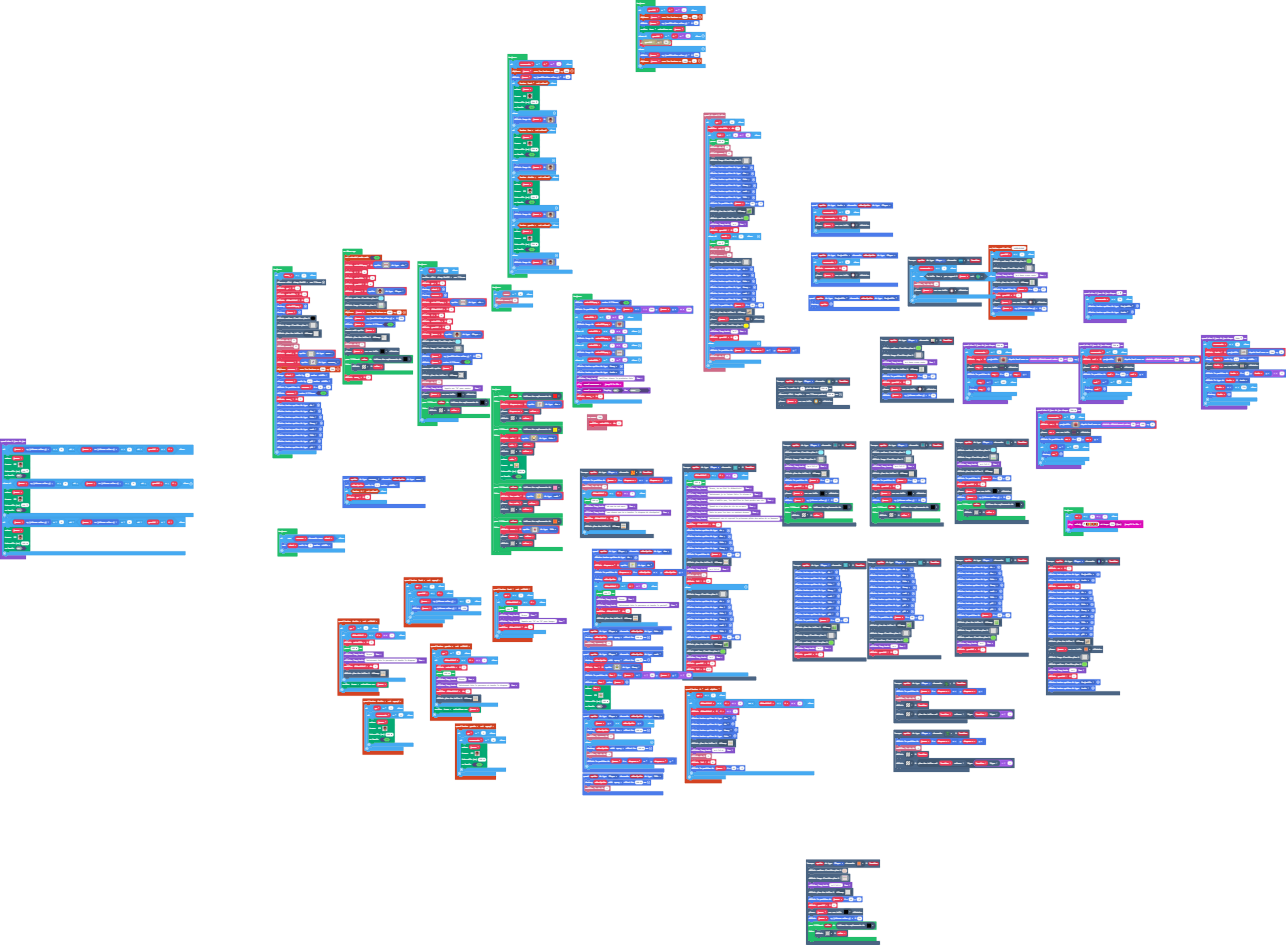
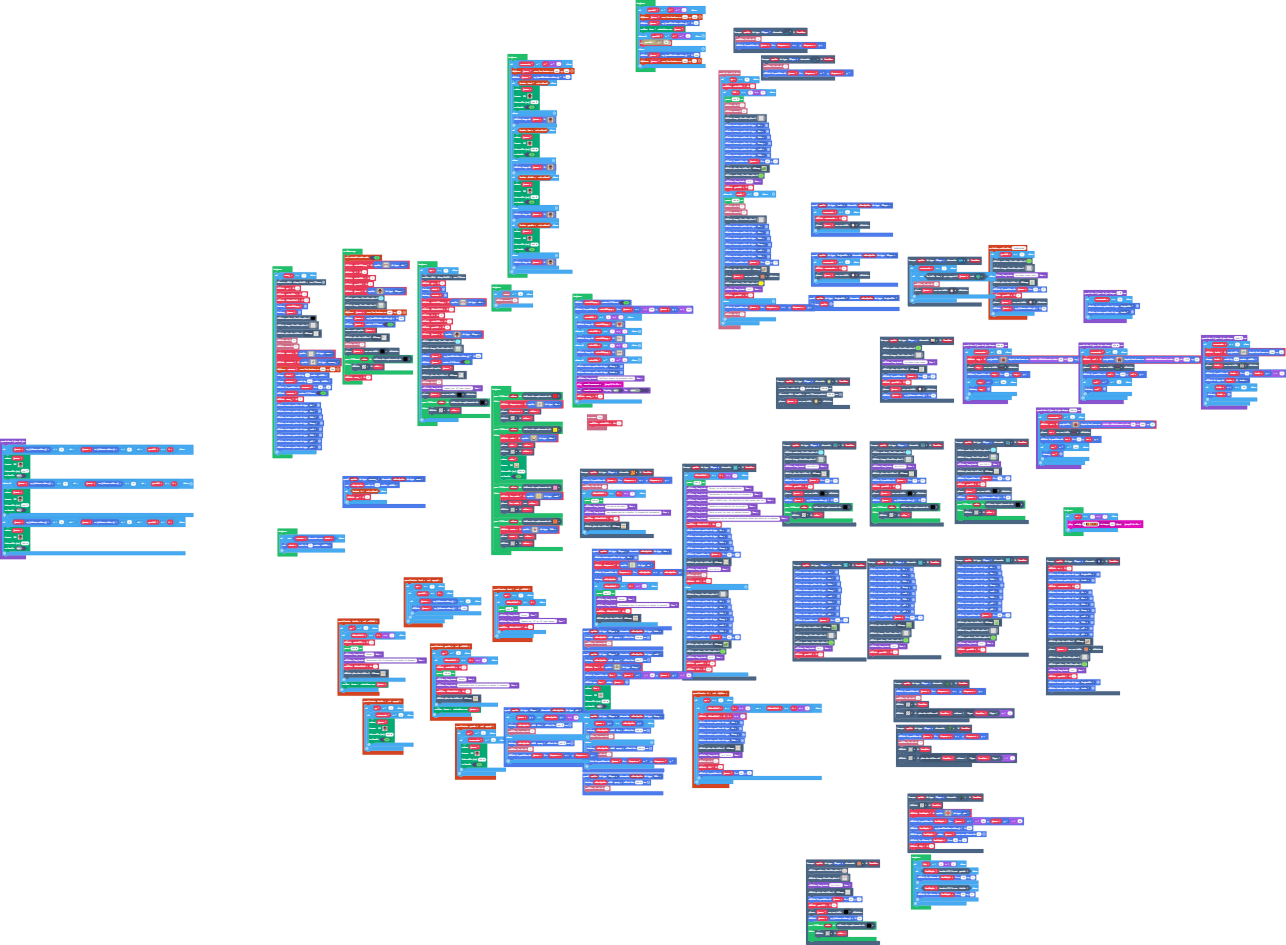
Mise à jour pxt.json, main.blocks, main.ts, tilemap.g.jres, tilemap.g.ts

diff --git a/tilemap.g.ts b/tilemap.g.ts
@@ -272,6 +272,12 @@ namespace myTiles {
     export const tile135 = image.ofBuffer(hex``);
     //% fixedInstance jres blockIdentity=images._tile
     export const tile9 = image.ofBuffer(hex``);
+    //% fixedInstance jres blockIdentity=images._tile
+    export const tile136 = image.ofBuffer(hex``);
+    //% fixedInstance jres blockIdentity=images._tile
+    export const tile137 = image.ofBuffer(hex``);
+    //% fixedInstance jres blockIdentity=images._tile
+    export const tile138 = image.ofBuffer(hex``);
 
     helpers._registerFactory("tilemap", function(name: string) {
         switch(helpers.stringTrim(name)) {
@@ -1903,25 +1909,6 @@ namespace myTiles {
 . . . . . . . . . . . . . . . . 
 . . . . . . . . . . . . . . . . 
 `, [myTiles.transparency16,sprites.castle.tilePath5,myTiles.tile41,myTiles.tile45,myTiles.tile39,myTiles.tile46,myTiles.tile48,myTiles.tile49,myTiles.tile50,myTiles.tile42,myTiles.tile43,myTiles.tile22,myTiles.tile23,myTiles.tile24,myTiles.tile26,myTiles.tile105,myTiles.tile112,myTiles.tile114,myTiles.tile115,myTiles.tile117,myTiles.tile119,myTiles.tile120,myTiles.tile121,myTiles.tile118,myTiles.tile123,myTiles.tile124,myTiles.tile125,myTiles.tile127,myTiles.tile128,myTiles.tile129,myTiles.tile110,myTiles.tile116,myTiles.tile95], TileScale.Sixteen);
-            case "level1":
[1 lines of base64/hex data omitted]
-................................................................
-................................................................
-................................................................
-................................................................
-................................................................
-................................................................
-................................................................
-................................................................
-................................................................
-................................................................
-................................................................
-................................................................
-................................................................
-................................................................
-......222...22..................................................
-22222222222222222222............................................
-`, [myTiles.transparency16,myTiles.tile97,myTiles.tile98,myTiles.tile99,myTiles.tile109,myTiles.tile111,myTiles.tile113,myTiles.tile131,myTiles.tile132,myTiles.tile133,myTiles.tile134,myTiles.tile135,myTiles.tile10,myTiles.tile1,myTiles.tile51], TileScale.Sixteen);
             case "level1-m2":
             case "level4":return tiles.createTilemap(hex`1000100000000000000000000000000000000000000000000000000000000000000000000000000000000000000000000000000000000000000000000000000000000000000000000000000000000000000000000000000000000000000000000000000000000000000000000000000000000000000000000000000000000000000000000000000000000000000000000000000000000000000000000000000000000000000000000000000000000000000000000000000000000000000000000000000000000000000000000000000000000000000000000000000000000000000000000000000000000000000000000000000000000000000000000000000000000000`, img`
 . . . . . . . . . . . . . . . . 
@@ -2134,6 +2121,25 @@ namespace myTiles {
 . . . . . . . . . . . . . . . . 
 . . . . . . . . . . . . . . . . 
 `, [myTiles.transparency16], TileScale.Sixteen);
+            case "level1":
[1 lines of base64/hex data omitted]
+................................................................
+................................................................
+................................................................
+................................................................
+................................................................
+................................................................
+................................................................
+................................................................
+................................................................
+................................................................
+................................................................
+................................................................
+................................................................
+................................................................
+......222...22..................................................
+22222222222222222222............................................
+`, [myTiles.transparency16,myTiles.tile97,myTiles.tile98,myTiles.tile99,myTiles.tile109,myTiles.tile111,myTiles.tile113,myTiles.tile131,myTiles.tile132,myTiles.tile133,myTiles.tile134,myTiles.tile135,myTiles.tile10,myTiles.tile1,myTiles.tile51,myTiles.tile136,myTiles.tile137,myTiles.tile138], TileScale.Sixteen);
         }
         return null;
     })
@@ -2411,6 +2417,12 @@ namespace myTiles {
             case "tile135":return tile135;
             case "myTile7":
             case "tile9":return tile9;
+            case "myTile134":
+            case "tile136":return tile136;
+            case "myTile135":
+            case "tile137":return tile137;
+            case "myTile136":
+            case "tile138":return tile138;
         }
         return null;
     })

diff --git a/main.ts b/main.ts
@@ -10,6 +10,7 @@ namespace SpriteKind {
     export const curseur_ = SpriteKind.create()
     export const menu = SpriteKind.create()
     export const train = SpriteKind.create()
+    export const pic = SpriteKind.create()
 }
 sprites.onOverlap(SpriteKind.Player, SpriteKind.Coin, function (sprite, otherSprite) {
     sprites.destroy(otherSprite, effects.spray, 100)
@@ -30,6 +31,10 @@ controller.A.onEvent(ControllerButtonEvent.Repeated, function () {
             joueur.setPosition(46, -5)
         }
     }
+})
+scene.onOverlapTile(SpriteKind.Player, assets.tile`myTile135`, function (sprite, location) {
+    info.changeLifeBy(-1)
+    joueur.setPosition(drapeau_a.x, drapeau_a.y)
 })
 scene.onOverlapTile(SpriteKind.Player, assets.tile`myTile15`, function (sprite, location) {
     if (didactitiel == _1 + 4) {
@@ -591,6 +596,16 @@ controller.up.onEvent(ControllerButtonEvent.Released, function () {
             game.showLongText("Appuis sur \"A\" ou \"D\" pour bouger", DialogLayout.Bottom)
             didactitiel += 1
         }
+    }
+})
+sprites.onOverlap(SpriteKind.Player, SpriteKind.pic, function (sprite, otherSprite) {
+    if (joueur.y < otherSprite.y + 10) {
+        sprites.destroy(otherSprite, effects.fire, 100)
+        info.changeScoreBy(5)
+    } else {
+        sprites.destroy(otherSprite, effects.spray, 100)
+        info.changeLifeBy(-1)
+        joueur.setPosition(drapeau_a.x, drapeau_a.y)
     }
 })
 scene.onOverlapTile(SpriteKind.Player, assets.tile`myTile129`, function (sprite, location) {
@@ -1532,6 +1547,10 @@ info.onLifeZero(function () {
         }
     }
 })
+scene.onOverlapTile(SpriteKind.Player, assets.tile`myTile134`, function (sprite, location) {
+    info.changeLifeBy(-1)
+    joueur.setPosition(drapeau_a.x, drapeau_a.y)
+})
 sprites.onOverlap(SpriteKind.train, SpriteKind.Player, function (sprite, otherSprite) {
     if (crossroute == 1) {
         crossroute = 0
@@ -1557,6 +1576,33 @@ info.onScore(200, function () {
 sprites.onOverlap(SpriteKind.Player, SpriteKind.life, function (sprite, otherSprite) {
     sprites.destroy(otherSprite, effects.spray, 100)
     info.changeLifeBy(1)
+})
+scene.onOverlapTile(SpriteKind.Player, assets.tile`myTile136`, function (sprite, location) {
+    tiles.setTileAt(location, assets.tile`transparency16`)
+    bouldepic = sprites.create(img`
+        . . . . . . . . . . . . . . . . . 
+        . . . . . c c c c c c c . . . . . 
+        . . . c c d 2 d 2 d 2 d c c . . . 
+        . . c 2 2 2 2 2 2 2 2 2 2 2 c . . 
+        . . c d 2 d 2 d 2 d 2 d 2 d c . . 
+        . c 2 2 2 2 2 2 2 2 2 2 2 2 2 c . 
+        . c 2 d 2 d 2 d 2 d 2 d 2 d 2 c . 
+        . c 2 2 2 2 2 2 2 2 2 2 2 2 2 c . 
+        . c 2 d 2 d 2 d 2 d 2 d 2 d 2 c . 
+        . c 2 2 2 2 2 2 2 2 2 2 2 2 2 c . 
+        . c 2 d 2 d 2 d 2 d 2 d 2 d 2 c . 
+        . c 2 2 2 2 2 2 2 2 2 2 2 2 2 c . 
+        . . c d 2 d 2 d 2 d 2 d 2 d c . . 
+        . . c 2 2 2 2 2 2 2 2 2 2 2 c . . 
+        . . . c c d 2 d 2 d 2 d c c . . . 
+        . . . . . c c c c c c c . . . . . 
+        . . . . . . . . . . . . . . . . . 
+        `, SpriteKind.pic)
+    bouldepic.setPosition(joueur.x - 80, joueur.y - 80)
+    bouldepic.ay = 350
+    bouldepic.follow(joueur, 0)
+    bouldepic.setVelocity(50, 0)
+    bdp = 1
 })
 scene.onOverlapTile(SpriteKind.Player, assets.tile`myTile68`, function (sprite, location) {
     scene.setBackgroundColor(7)
@@ -2210,10 +2256,12 @@ let drapeau_na: Sprite = null
 let curseur: Sprite = null
 let start: Sprite = null
 let train: Sprite = null
+let bdp = 0
+let bouldepic: Sprite = null
 let m = 0
 let bee: Sprite = null
-let drapeau_a: Sprite = null
 let crossroute = 0
+let drapeau_a: Sprite = null
 let lvl = 0
 let didactitiel = 0
 let go = 0
@@ -3730,6 +3778,16 @@ forever(function () {
 forever(function () {
     if (m == 1 + 1) {
         music.play(music.stringPlayable("C5 B A B B C5 B B ", 220), music.PlaybackMode.UntilDone)
+    }
+})
+forever(function () {
+    if (bdp == 0 + 1) {
+        if (bouldepic.isHittingTile(CollisionDirection.Left)) {
+            bouldepic.setVelocity(-50, 0)
+        }
+        if (bouldepic.isHittingTile(CollisionDirection.Right)) {
+            bouldepic.setVelocity(50, 0)
+        }
     }
 })
 game.onUpdateInterval(500, function () {
